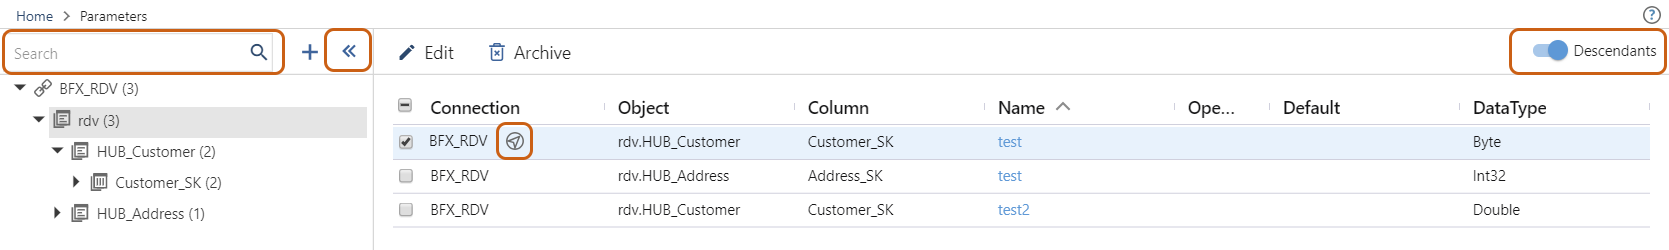
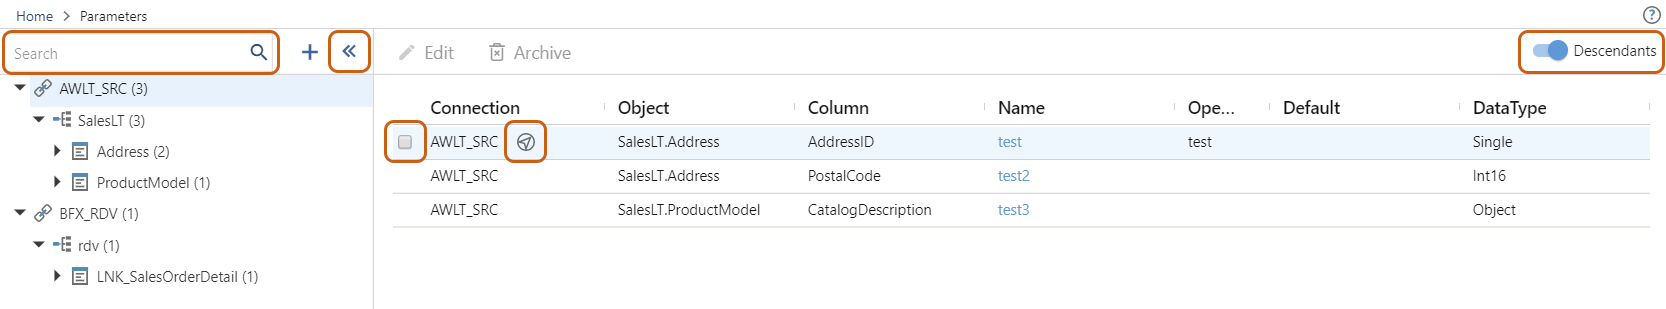
Parameters updates with final feature lock images

diff --git a/bimlflex/metadata-editors/parameters.md b/bimlflex/metadata-editors/parameters.md
@@ -28,18 +28,20 @@ The following sections describe the UI elements of the **Parameters Editor** and
 -->
 
 **Parameters** within BimlFlex are displayed in a hierarchical tree view on the left sidenav menu.
-The tree view is organized by **Connections** > **Objects** > **Column** > **Parameters**.  
+The tree view is organized by **Connections** > **Objects** > **Columns** > **Parameters**.  
 The total number of **Parameters** will be displayed in parenthesis next to the **Connection** in the menu.  
 The individual number of **Parameters** assigned to each **Object** or **Column** will also be displayed in parenthesis.
 
-Selecting a **Column** with multiple **Parameters** will display a secondary list of all editable options within.
+Selecting a **Connection** with multiple **Parameters** will display a secondary list of all editable options within.
 The user may navigate to the Parameter Editor Screen by selecting any **Parameter** from the displayed list.
 
-Selecting a **Column** with a single **Parameter** will immediately navigate the user to the Parameter editor screen.
+Selecting a **Connection** with a single **Parameter** will immediately navigate the user to the Parameter editor screen.
 
 ![BimlFlex Parameters - Listview](images/bfx-parameters-listview.png "BimlFlex Parmeters - Listview")
 
 The tree view for **Parameters** is expandable/collapsible by clicking the `<<` icon.
+
+Selecting the checkbox(es) icon will enable users to bulk archive multiple **Parameters** at one time.
 
 Any instance of the `'Compass'` icon will serve as a Global Navigation Transition.
 Clicking this icon will navigate the user directly to the referenced **Connection, Object,** or **Column.**
@@ -79,11 +81,15 @@ The Search field will return results in realtime, only presenting Parameters con
 
 ## Fields  
 
+<!--
 <img 
     src="images/bimlflex-app-editor-parameters-fields.png" 
     class="bordered-image" 
     title="Parameter Fields"
 />
+-->
+
+![BimlFlex Parameters - Fields](images/bfx-parameters-fields.png "BimlFlex Parameters - Fields")
 
 |Field|Description|
 |-|-|
